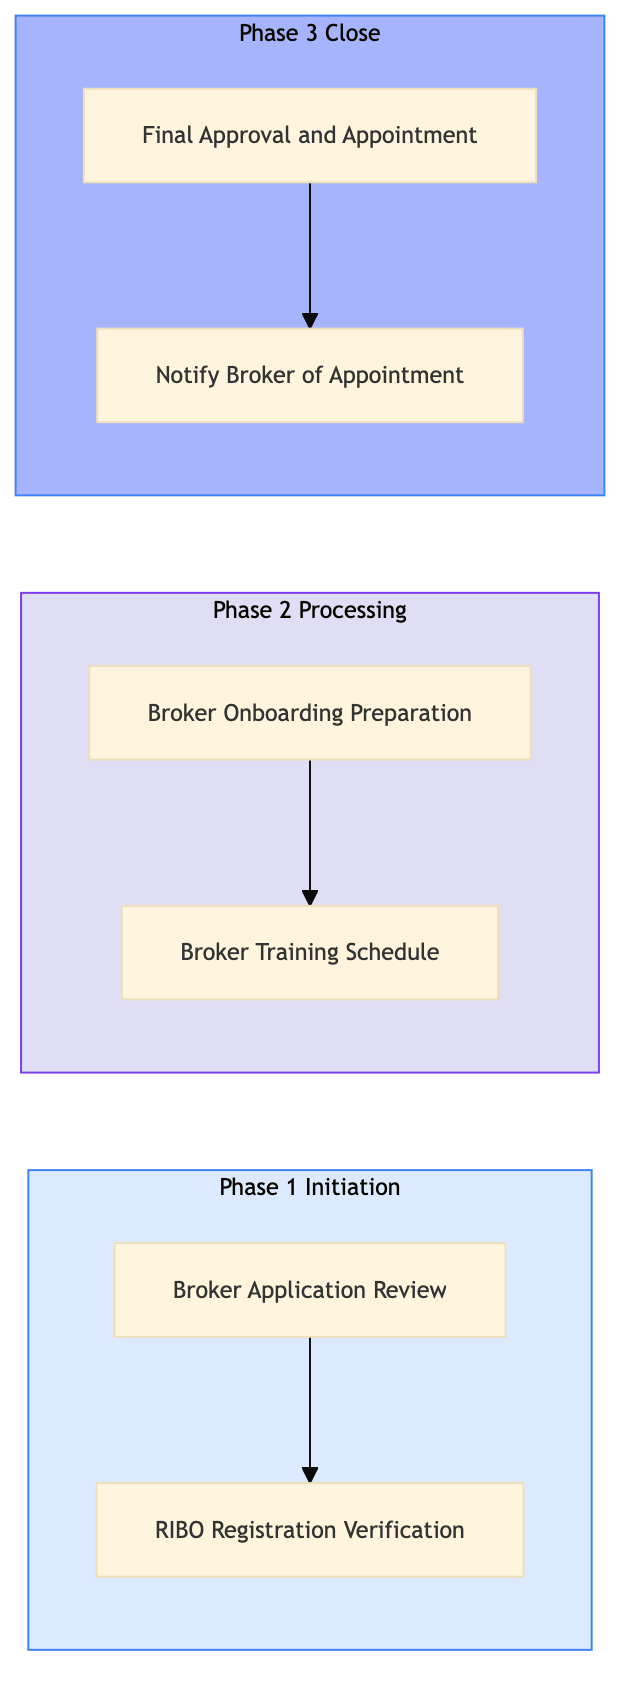
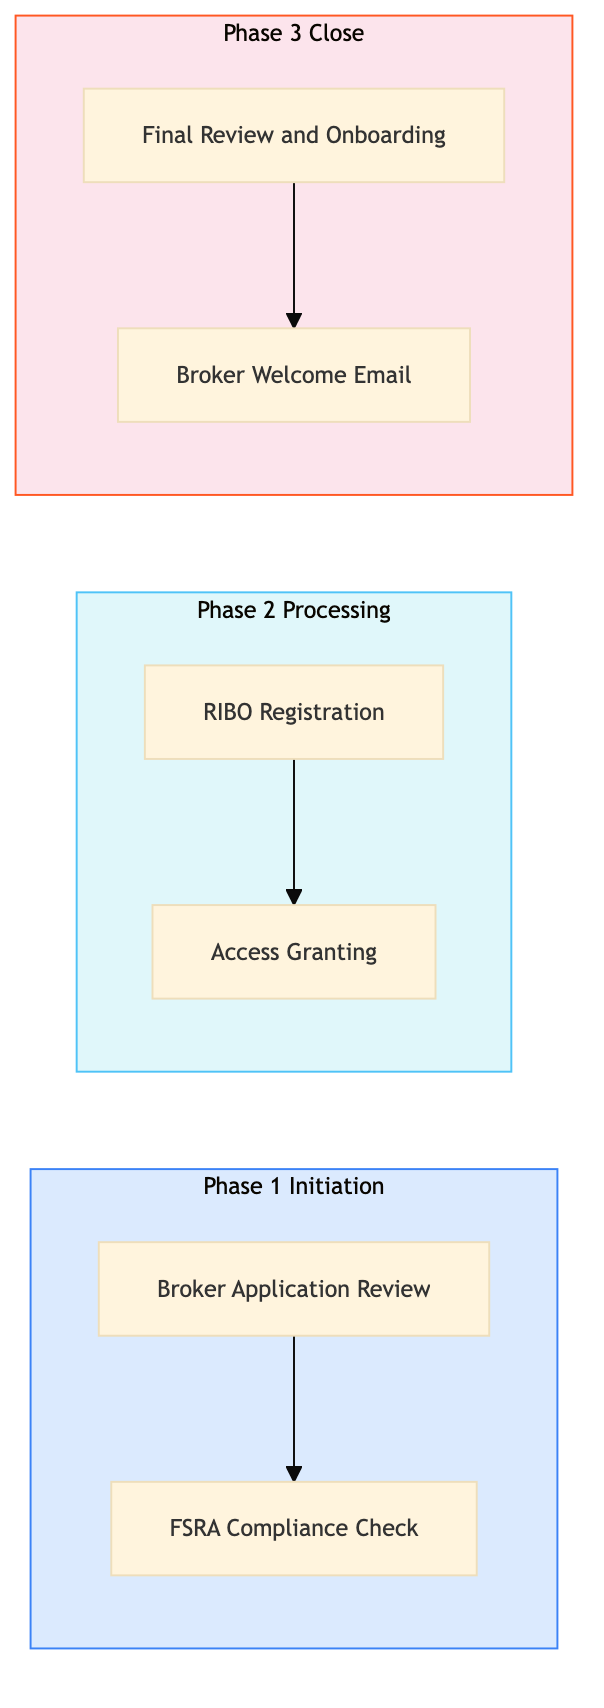
feat: add CAA-CI-AG-01 — Broker Appointment and RIBO Registration Verification

diff --git a/caa-insurance/caa-agency-operations/caa-ci-ag-01.html b/caa-insurance/caa-agency-operations/caa-ci-ag-01.html
@@ -23,40 +23,16 @@
     <div class="nav-l2-group">
       <a class="nav-l2-title" href="../../shared-membership/membership-enrolment/index.html">Membership Enrolment & Sales</a>
       <div class="nav-l3-list">
-        <a class="nav-l3" href="../../shared-membership/membership-enrolment/shared-mb-en-01.html">SHARED-MB-EN-01 &mdash; New Member Walk-In Enrolment (Branch)</a>
-        <a class="nav-l3" href="../../shared-membership/membership-enrolment/shared-mb-en-02.html">SHARED-MB-EN-02 &mdash; Online Membership Self-Enrolment (Web/Ap</a>
-        <a class="nav-l3" href="../../shared-membership/membership-enrolment/shared-mb-en-03.html">SHARED-MB-EN-03 &mdash; Phone Enrolment via Contact Centre</a>
-        <a class="nav-l3" href="../../shared-membership/membership-enrolment/shared-mb-en-04.html">SHARED-MB-EN-04 &mdash; Affiliate and Employer Group Enrolment</a>
-        <a class="nav-l3" href="../../shared-membership/membership-enrolment/shared-mb-en-05.html">SHARED-MB-EN-05 &mdash; Membership Tier Selection and Upsell</a>
-        <a class="nav-l3" href="../../shared-membership/membership-enrolment/shared-mb-en-06.html">SHARED-MB-EN-06 &mdash; Payment Processing and First-Year Billin</a>
-        <a class="nav-l3" href="../../shared-membership/membership-enrolment/shared-mb-en-07.html">SHARED-MB-EN-07 &mdash; Welcome Kit and Digital Card Issuance</a>
-        <a class="nav-l3" href="../../shared-membership/membership-enrolment/shared-mb-en-08.html">SHARED-MB-EN-08 &mdash; Duplicate Member Detection and Merge</a>
       </div>
     </div>
     <div class="nav-l2-group">
       <a class="nav-l2-title" href="../../shared-membership/membership-renewal/index.html">Membership Renewal & Retention</a>
       <div class="nav-l3-list">
-        <a class="nav-l3" href="../../shared-membership/membership-renewal/shared-mb-rn-01.html">SHARED-MB-RN-01 &mdash; Annual Renewal Notice Generation and Dis</a>
-        <a class="nav-l3" href="../../shared-membership/membership-renewal/shared-mb-rn-02.html">SHARED-MB-RN-02 &mdash; Auto-Renewal Processing (Credit Card on </a>
-        <a class="nav-l3" href="../../shared-membership/membership-renewal/shared-mb-rn-03.html">SHARED-MB-RN-03 &mdash; Lapsed Member Reinstatement Campaign</a>
-        <a class="nav-l3" href="../../shared-membership/membership-renewal/shared-mb-rn-04.html">SHARED-MB-RN-04 &mdash; Membership Upgrade and Tier Change Proce</a>
-        <a class="nav-l3" href="../../shared-membership/membership-renewal/shared-mb-rn-05.html">SHARED-MB-RN-05 &mdash; Associate and Household Member Add-On Pr</a>
-        <a class="nav-l3" href="../../shared-membership/membership-renewal/shared-mb-rn-06.html">SHARED-MB-RN-06 &mdash; Cancellation Request Handling and Save O</a>
-        <a class="nav-l3" href="../../shared-membership/membership-renewal/shared-mb-rn-07.html">SHARED-MB-RN-07 &mdash; Renewal Rate Review and Pricing Update</a>
-        <a class="nav-l3" href="../../shared-membership/membership-renewal/shared-mb-rn-08.html">SHARED-MB-RN-08 &mdash; Membership Winback Campaign (12-36 Month</a>
       </div>
     </div>
     <div class="nav-l2-group">
       <a class="nav-l2-title" href="../../shared-membership/member-services/index.html">Member Services & Benefits</a>
       <div class="nav-l3-list">
-        <a class="nav-l3" href="../../shared-membership/member-services/shared-mb-sv-01.html">SHARED-MB-SV-01 &mdash; Member Discount Partner Redemption</a>
-        <a class="nav-l3" href="../../shared-membership/member-services/shared-mb-sv-02.html">SHARED-MB-SV-02 &mdash; Passport Photo Service Delivery (Branch)</a>
-        <a class="nav-l3" href="../../shared-membership/member-services/shared-mb-sv-03.html">SHARED-MB-SV-03 &mdash; International Driving Permit (IDP) Proce</a>
-        <a class="nav-l3" href="../../shared-membership/member-services/shared-mb-sv-04.html">SHARED-MB-SV-04 &mdash; Notary and Document Authentication Servi</a>
-        <a class="nav-l3" href="../../shared-membership/member-services/shared-mb-sv-05.html">SHARED-MB-SV-05 &mdash; Member Portal Profile and Preferences Ma</a>
-        <a class="nav-l3" href="../../shared-membership/member-services/shared-mb-sv-06.html">SHARED-MB-SV-06 &mdash; Lost and Stolen Membership Card Replacem</a>
-        <a class="nav-l3" href="../../shared-membership/member-services/shared-mb-sv-07.html">SHARED-MB-SV-07 &mdash; Member Data Privacy Request (CCPA and PI</a>
-        <a class="nav-l3" href="../../shared-membership/member-services/shared-mb-sv-08.html">SHARED-MB-SV-08 &mdash; Member Satisfaction Survey and NPS Track</a>
       </div>
     </div>
   </div>
@@ -338,7 +314,7 @@
           <span class="pid-badge org-badge-caa">CAA</span>
           CAA-CI-AG-01 &mdash; Broker Appointment and RIBO Registration Verification
         </h1>
-        <p>This process manages the appointment of insurance brokers and verifies their RIBO (Registered Insurance Brokers Ontario) registration for CAA South Central Ontario.</p>
+        <p>The process for verifying broker appointments and RIBO registrations in CAA South Central Ontario involves validating new brokers against FSRA regulations and ensuring they are properly registered in the Guidewire InsuranceSuite.</p>
       </div>
 
       <!-- BPMN Diagram -->
@@ -364,10 +340,10 @@
             <tr><th>L1 Domain</th><td>CAA Insurance (Ontario)</td></tr>
             <tr><th>L2 Process</th><td>Insurance Agency & Broker Operations</td></tr>
             <tr><th>L3 Name</th><td>Broker Appointment and RIBO Registration Verification</td></tr>
-            <tr><th>Trigger</th><td>A new broker application is submitted through the Guidewire InsuranceSuite or a direct request from an existing broker.</td></tr>
-            <tr><th>Outcome</th><td>Successful completion results in the broker being officially appointed and verified as a registered insurance broker under FSRA regulations, allowing them to conduct business with CAA South Central Ontario.</td></tr>
-            <tr><th>Org Notes</th><td>CAA South Central Ontario has specific requirements for RIBO registration that differ slightly from AAA's processes, particularly around compliance with Ontario's Financial Services Regulatory Authority (FSRA) guidelines.</td></tr>
-            <tr><th>Systems</th><td><span class="sys-tag guidewire">Guidewire InsuranceSuite</span> <span class="sys-tag fsra">FSRA Database</span> <span class="sys-tag galileo">Galileo GDS</span> <span class="sys-tag caa-app">CAA MyCAA App</span></td></tr>
+            <tr><th>Trigger</th><td>New broker application submission</td></tr>
+            <tr><th>Outcome</th><td>Successful registration of a verified broker with access to CAA systems and services.</td></tr>
+            <tr><th>Org Notes</th><td>CAA requires stricter verification processes compared to AAA, including additional checks against FSRA regulations.</td></tr>
+            <tr><th>Systems</th><td><span class="sys-tag guidewire">Guidewire InsuranceSuite</span> <span class="sys-tag galileo">Galileo GDS</span> <span class="sys-tag salesforce">Salesforce</span></td></tr>
           </table>
         </div>
       </div>
@@ -391,70 +367,70 @@
           <td>Broker Application Review</td>
           <td>Insurance Agency Manager</td>
           <td><span class="sys-tag guidewire">Guidewire InsuranceSuite</span></td>
-          <td>Broker application form</td>
+          <td>New broker application form</td>
           <td>Application review report</td>
           <td>Application review time < 3 business days</td>
-          <td>Delays in application processing can affect broker onboarding timelines.</td>
+          <td>Delays in reviewing applications due to high volume</td>
           <td><span class="decision-y">Y</span></td>
           <td>N</td>
         </tr>
         <tr>
           <td class="step-num">1.2</td>
-          <td>RIBO Registration Verification</td>
+          <td>FSRA Compliance Check</td>
           <td>Regulatory Compliance Officer</td>
-          <td><span class="sys-tag fsra">FSRA Database</span></td>
-          <td>Broker's RIBO registration number</td>
-          <td>Verification report</td>
-          <td>Registration verification time < 1 business day</td>
-          <td>Incorrect or missing RIBO numbers can lead to delays in broker appointments.</td>
+          <td><span class="sys-tag galileo">Galileo GDS</span></td>
+          <td>Broker application review report</td>
+          <td>Compliance check report</td>
+          <td>Compliance check completion within 1 business day</td>
+          <td>Inaccurate compliance data leading to false rejections</td>
           <td><span class="decision-y">Y</span></td>
           <td>N</td>
         </tr>
         <tr>
           <td class="step-num">2.1</td>
-          <td>Broker Onboarding Preparation</td>
-          <td>Insurance Agency Manager</td>
+          <td>RIBO Registration</td>
+          <td>Broker Administrator</td>
           <td><span class="sys-tag guidewire">Guidewire InsuranceSuite</span></td>
-          <td>Verification report</td>
-          <td>Onboarding checklist</td>
-          <td>Onboarding preparation time < 2 business days</td>
-          <td>Incomplete onboarding checklists can cause operational inefficiencies.</td>
+          <td>Compliance check report</td>
+          <td>Registered broker profile in Guidewire</td>
+          <td>Registration time < 2 business days</td>
+          <td>System errors during registration process</td>
           <td>N</td>
           <td><span class="exception-y">Y</span></td>
         </tr>
         <tr>
           <td class="step-num">2.2</td>
-          <td>Broker Training Schedule</td>
-          <td>Training Coordinator</td>
-          <td><span class="sys-tag galileo">Galileo GDS</span></td>
-          <td>Onboarding checklist</td>
-          <td>Training schedule</td>
-          <td>Training completion rate > 90%</td>
-          <td>Low training completion rates can impact broker performance.</td>
+          <td>Access Granting</td>
+          <td>IT Support Specialist</td>
+          <td><span class="sys-tag guidewire">Guidewire InsuranceSuite</span></td>
+          <td>Registered broker profile</td>
+          <td>Broker access granted to CAA systems</td>
+          <td>Access granting time < 1 business day</td>
+          <td>Security breaches due to improper access management</td>
           <td>N</td>
           <td><span class="exception-y">Y</span></td>
         </tr>
         <tr>
           <td class="step-num">3.1</td>
-          <td>Final Approval and Appointment</td>
-          <td>General Manager</td>
+          <td>Final Review and Onboarding</td>
+          <td>Insurance Agency Manager</td>
           <td><span class="sys-tag guidewire">Guidewire InsuranceSuite</span></td>
-          <td>Training schedule</td>
-          <td>Appointment letter</td>
-          <td>Appointment approval time < 1 business day</td>
-          <td>Delays in final approvals can affect broker readiness.</td>
+          <td>Broker access granted notification</td>
+          <td>Onboarding checklist completed</td>
+          <td>Onboarding completion within 1 business day</td>
+          <td>Incomplete onboarding leading to broker confusion</td>
           <td>N</td>
           <td><span class="exception-y">Y</span></td>
         </tr>
         <tr>
           <td class="step-num">3.2</td>
-          <td>Notify Broker of Appointment</td>
-          <td>Insurance Agency Manager</td>
-          <td><span class="sys-tag caa-app">CAA MyCAA App</span></td>
-          <td>Appointment letter</td>
-          <td>Notification sent to broker</td>
-          <td>Broker notification time < 1 business day</td>
-          <td>Missed notifications can lead to confusion and operational delays.</td>
+          <td>Broker Welcome Email</td>
+          <td>Marketing Coordinator</td>
+          <td><span class="sys-tag salesforce">Salesforce</span></td>
+          <td>Onboarding checklist completed</td>
+          <td>Welcome email sent to broker</td>
+          <td>Email delivery rate > 95%</td>
+          <td>High bounce rates due to outdated contact information</td>
           <td>N</td>
           <td><span class="exception-y">Y</span></td>
         </tr>
@@ -469,9 +445,9 @@
         <div class="card-header">&#x1F4CA; KPIs &amp; Risk Register</div>
         <div class="card-body">
           <p class="mb-8"><strong>KPIs</strong></p>
-          <div class="kpi-list mb-8"><span class="kpi-pill">Application review time < 3 business days</span> <span class="kpi-pill">Registration verification time < 1 business day</span> <span class="kpi-pill">Onboarding preparation time < 2 business days</span> <span class="kpi-pill">Training completion rate > 90%</span> <span class="kpi-pill">Appointment approval time < 1 business day</span> <span class="kpi-pill">Broker notification time < 1 business day</span></div>
+          <div class="kpi-list mb-8"><span class="kpi-pill">Application review time < 3 business days</span> <span class="kpi-pill">Compliance check completion within 1 business day</span> <span class="kpi-pill">Registration time < 2 business days</span> <span class="kpi-pill">Access granting time < 1 business day</span> <span class="kpi-pill">Onboarding completion within 1 business day</span> <span class="kpi-pill">Email delivery rate > 95%</span></div>
           <p class="mb-8" style="margin-top:16px"><strong>Key Risks</strong></p>
-          <div class="kpi-list"><span class="risk-pill">Delays in application processing due to incomplete forms.</span> <span class="risk-pill">Incorrect or missing RIBO numbers leading to verification failures.</span> <span class="risk-pill">Incomplete onboarding checklists causing operational inefficiencies.</span> <span class="risk-pill">Low training completion rates impacting broker performance.</span> <span class="risk-pill">Delays in final approvals affecting broker readiness.</span></div>
+          <div class="kpi-list"><span class="risk-pill">Delays in reviewing applications due to high volume</span> <span class="risk-pill">Inaccurate compliance data leading to false rejections</span> <span class="risk-pill">System errors during registration process</span> <span class="risk-pill">Security breaches due to improper access management</span> <span class="risk-pill">Incomplete onboarding leading to broker confusion</span></div>
         </div>
       </div>
 

diff --git a/caa-insurance/caa-agency-operations/index.html b/caa-insurance/caa-agency-operations/index.html
@@ -21,40 +21,16 @@
     <div class="nav-l2-group">
       <a class="nav-l2-title" href="../../shared-membership/membership-enrolment/index.html">Membership Enrolment & Sales</a>
       <div class="nav-l3-list">
-        <a class="nav-l3" href="../../shared-membership/membership-enrolment/shared-mb-en-01.html">SHARED-MB-EN-01 &mdash; New Member Walk-In Enrolment (Branch)</a>
-        <a class="nav-l3" href="../../shared-membership/membership-enrolment/shared-mb-en-02.html">SHARED-MB-EN-02 &mdash; Online Membership Self-Enrolment (Web/Ap</a>
-        <a class="nav-l3" href="../../shared-membership/membership-enrolment/shared-mb-en-03.html">SHARED-MB-EN-03 &mdash; Phone Enrolment via Contact Centre</a>
-        <a class="nav-l3" href="../../shared-membership/membership-enrolment/shared-mb-en-04.html">SHARED-MB-EN-04 &mdash; Affiliate and Employer Group Enrolment</a>
-        <a class="nav-l3" href="../../shared-membership/membership-enrolment/shared-mb-en-05.html">SHARED-MB-EN-05 &mdash; Membership Tier Selection and Upsell</a>
-        <a class="nav-l3" href="../../shared-membership/membership-enrolment/shared-mb-en-06.html">SHARED-MB-EN-06 &mdash; Payment Processing and First-Year Billin</a>
-        <a class="nav-l3" href="../../shared-membership/membership-enrolment/shared-mb-en-07.html">SHARED-MB-EN-07 &mdash; Welcome Kit and Digital Card Issuance</a>
-        <a class="nav-l3" href="../../shared-membership/membership-enrolment/shared-mb-en-08.html">SHARED-MB-EN-08 &mdash; Duplicate Member Detection and Merge</a>
       </div>
     </div>
     <div class="nav-l2-group">
       <a class="nav-l2-title" href="../../shared-membership/membership-renewal/index.html">Membership Renewal & Retention</a>
       <div class="nav-l3-list">
-        <a class="nav-l3" href="../../shared-membership/membership-renewal/shared-mb-rn-01.html">SHARED-MB-RN-01 &mdash; Annual Renewal Notice Generation and Dis</a>
-        <a class="nav-l3" href="../../shared-membership/membership-renewal/shared-mb-rn-02.html">SHARED-MB-RN-02 &mdash; Auto-Renewal Processing (Credit Card on </a>
-        <a class="nav-l3" href="../../shared-membership/membership-renewal/shared-mb-rn-03.html">SHARED-MB-RN-03 &mdash; Lapsed Member Reinstatement Campaign</a>
-        <a class="nav-l3" href="../../shared-membership/membership-renewal/shared-mb-rn-04.html">SHARED-MB-RN-04 &mdash; Membership Upgrade and Tier Change Proce</a>
-        <a class="nav-l3" href="../../shared-membership/membership-renewal/shared-mb-rn-05.html">SHARED-MB-RN-05 &mdash; Associate and Household Member Add-On Pr</a>
-        <a class="nav-l3" href="../../shared-membership/membership-renewal/shared-mb-rn-06.html">SHARED-MB-RN-06 &mdash; Cancellation Request Handling and Save O</a>
-        <a class="nav-l3" href="../../shared-membership/membership-renewal/shared-mb-rn-07.html">SHARED-MB-RN-07 &mdash; Renewal Rate Review and Pricing Update</a>
-        <a class="nav-l3" href="../../shared-membership/membership-renewal/shared-mb-rn-08.html">SHARED-MB-RN-08 &mdash; Membership Winback Campaign (12-36 Month</a>
       </div>
     </div>
     <div class="nav-l2-group">
       <a class="nav-l2-title" href="../../shared-membership/member-services/index.html">Member Services & Benefits</a>
       <div class="nav-l3-list">
-        <a class="nav-l3" href="../../shared-membership/member-services/shared-mb-sv-01.html">SHARED-MB-SV-01 &mdash; Member Discount Partner Redemption</a>
-        <a class="nav-l3" href="../../shared-membership/member-services/shared-mb-sv-02.html">SHARED-MB-SV-02 &mdash; Passport Photo Service Delivery (Branch)</a>
-        <a class="nav-l3" href="../../shared-membership/member-services/shared-mb-sv-03.html">SHARED-MB-SV-03 &mdash; International Driving Permit (IDP) Proce</a>
-        <a class="nav-l3" href="../../shared-membership/member-services/shared-mb-sv-04.html">SHARED-MB-SV-04 &mdash; Notary and Document Authentication Servi</a>
-        <a class="nav-l3" href="../../shared-membership/member-services/shared-mb-sv-05.html">SHARED-MB-SV-05 &mdash; Member Portal Profile and Preferences Ma</a>
-        <a class="nav-l3" href="../../shared-membership/member-services/shared-mb-sv-06.html">SHARED-MB-SV-06 &mdash; Lost and Stolen Membership Card Replacem</a>
-        <a class="nav-l3" href="../../shared-membership/member-services/shared-mb-sv-07.html">SHARED-MB-SV-07 &mdash; Member Data Privacy Request (CCPA and PI</a>
-        <a class="nav-l3" href="../../shared-membership/member-services/shared-mb-sv-08.html">SHARED-MB-SV-08 &mdash; Member Satisfaction Survey and NPS Track</a>
       </div>
     </div>
   </div>
@@ -165,13 +141,6 @@
     <div class="nav-l2-group open">
       <a class="nav-l2-title" href="../../caa-insurance/caa-agency-operations/index.html">Insurance Agency & Broker Operations</a>
       <div class="nav-l3-list">
-        <a class="nav-l3" href="../../caa-insurance/caa-agency-operations/caa-ci-ag-01.html">CAA-CI-AG-01 &mdash; Broker Appointment and RIBO Registration</a>
-        <a class="nav-l3" href="../../caa-insurance/caa-agency-operations/caa-ci-ag-02.html">CAA-CI-AG-02 &mdash; RIBO Licence Renewal Tracking</a>
-        <a class="nav-l3" href="../../caa-insurance/caa-agency-operations/caa-ci-ag-03.html">CAA-CI-AG-03 &mdash; CAA Member Cross-Sell Auto and Home Bund</a>
-        <a class="nav-l3" href="../../caa-insurance/caa-agency-operations/caa-ci-ag-04.html">CAA-CI-AG-04 &mdash; CAA Connect Telematics Enrolment for UBI</a>
-        <a class="nav-l3" href="../../caa-insurance/caa-agency-operations/caa-ci-ag-05.html">CAA-CI-AG-05 &mdash; Broker Performance Reporting (Guidewire </a>
-        <a class="nav-l3" href="../../caa-insurance/caa-agency-operations/caa-ci-ag-06.html">CAA-CI-AG-06 &mdash; Travel Medical Insurance Sales and Under</a>
-        <a class="nav-l3" href="../../caa-insurance/caa-agency-operations/caa-ci-ag-07.html">CAA-CI-AG-07 &mdash; Pet Insurance Sales Processing</a>
       </div>
     </div>
   </div>
@@ -338,20 +307,20 @@
           <a href="../index.html">CAA Insurance (Ontario)</a>
         </div>
         <h1>🍁 Insurance Agency & Broker Operations</h1>
-        <p>7 of 8 processes complete</p>
+        <p>0 of 8 processes complete</p>
       </div>
       <div class="card">
         <div class="card-header">Process List</div>
         <div class="card-body">
           <table class="l4-table" style="min-width:500px">
             <thead><tr><th>PID</th><th>L3 Process Name</th><th>Status</th></tr></thead>
-            <tbody><tr><td><a href="caa-ci-ag-01.html">CAA-CI-AG-01</a></td><td>Broker Appointment and RIBO Registration Verification</td><td><span style="color:#16a34a;font-weight:700">&#x2705; Complete</span></td></tr>
-<tr><td><a href="caa-ci-ag-02.html">CAA-CI-AG-02</a></td><td>RIBO Licence Renewal Tracking</td><td><span style="color:#16a34a;font-weight:700">&#x2705; Complete</span></td></tr>
-<tr><td><a href="caa-ci-ag-03.html">CAA-CI-AG-03</a></td><td>CAA Member Cross-Sell Auto and Home Bundle</td><td><span style="color:#16a34a;font-weight:700">&#x2705; Complete</span></td></tr>
-<tr><td><a href="caa-ci-ag-04.html">CAA-CI-AG-04</a></td><td>CAA Connect Telematics Enrolment for UBI Discount</td><td><span style="color:#16a34a;font-weight:700">&#x2705; Complete</span></td></tr>
-<tr><td><a href="caa-ci-ag-05.html">CAA-CI-AG-05</a></td><td>Broker Performance Reporting (Guidewire Analytics)</td><td><span style="color:#16a34a;font-weight:700">&#x2705; Complete</span></td></tr>
-<tr><td><a href="caa-ci-ag-06.html">CAA-CI-AG-06</a></td><td>Travel Medical Insurance Sales and Underwriting</td><td><span style="color:#16a34a;font-weight:700">&#x2705; Complete</span></td></tr>
-<tr><td><a href="caa-ci-ag-07.html">CAA-CI-AG-07</a></td><td>Pet Insurance Sales Processing</td><td><span style="color:#16a34a;font-weight:700">&#x2705; Complete</span></td></tr>
+            <tbody><tr><td>CAA-CI-AG-01</td><td>Broker Appointment and RIBO Registration Verification</td><td><span style="color:#94a3b8">&#x23F3; Queued</span></td></tr>
+<tr><td>CAA-CI-AG-02</td><td>RIBO Licence Renewal Tracking</td><td><span style="color:#94a3b8">&#x23F3; Queued</span></td></tr>
+<tr><td>CAA-CI-AG-03</td><td>CAA Member Cross-Sell Auto and Home Bundle</td><td><span style="color:#94a3b8">&#x23F3; Queued</span></td></tr>
+<tr><td>CAA-CI-AG-04</td><td>CAA Connect Telematics Enrolment for UBI Discount</td><td><span style="color:#94a3b8">&#x23F3; Queued</span></td></tr>
+<tr><td>CAA-CI-AG-05</td><td>Broker Performance Reporting (Guidewire Analytics)</td><td><span style="color:#94a3b8">&#x23F3; Queued</span></td></tr>
+<tr><td>CAA-CI-AG-06</td><td>Travel Medical Insurance Sales and Underwriting</td><td><span style="color:#94a3b8">&#x23F3; Queued</span></td></tr>
+<tr><td>CAA-CI-AG-07</td><td>Pet Insurance Sales Processing</td><td><span style="color:#94a3b8">&#x23F3; Queued</span></td></tr>
 <tr><td>CAA-CI-AG-08</td><td>Life Insurance Lead Referral (CAA Life Insurance)</td><td><span style="color:#94a3b8">&#x23F3; Queued</span></td></tr>
 </tbody>
           </table>

diff --git a/index.html b/index.html
@@ -135,6 +135,7 @@
         <a class="nav-l3" href="caa-insurance/caa-insurance-billing/caa-ci-bi-05.html">CAA-CI-BI-05 &mdash; Agent and Broker Commission Statement (B</a>
         <a class="nav-l3" href="caa-insurance/caa-insurance-billing/caa-ci-bi-06.html">CAA-CI-BI-06 &mdash; Refund and Returned Premium Calculation</a>
         <a class="nav-l3" href="caa-insurance/caa-insurance-billing/caa-ci-bi-07.html">CAA-CI-BI-07 &mdash; HST Calculation and Remittance (Ontario </a>
+        <a class="nav-l3" href="caa-insurance/caa-insurance-billing/caa-ci-bi-08.html">CAA-CI-BI-08 &mdash; Premium Tax Filing (Ontario 2 percent pr</a>
       </div>
     </div>
     <div class="nav-l2-group">
@@ -306,10 +307,10 @@
       </div>
 
       <div class="stats-bar">
-        <div class="stat-card"><div class="stat-num">59</div><div class="stat-label">Processes Complete</div></div>
+        <div class="stat-card"><div class="stat-num">60</div><div class="stat-label">Processes Complete</div></div>
         <div class="stat-card"><div class="stat-num">268</div><div class="stat-label">Total Processes</div></div>
         <div class="stat-card"><div class="stat-num">34</div><div class="stat-label">AAA Complete</div></div>
-        <div class="stat-card"><div class="stat-num caa-red">25</div><div class="stat-label">CAA Complete</div></div>
+        <div class="stat-card"><div class="stat-num caa-red">26</div><div class="stat-label">CAA Complete</div></div>
         <div class="stat-card"><div class="stat-num">0</div><div class="stat-label">Shared Complete</div></div>
       </div>
 
@@ -336,7 +337,7 @@
         <span class="nav-org-dot caa" style="display:inline-block;margin-right:4px"></span>
         CAA
       </p>
-      <p class="card-count">25 / 34 processes complete</p>
+      <p class="card-count">26 / 34 processes complete</p>
     </div>
     <div class="domain-card org-shared">
       <h3><a href="shared-roadside/index.html">🚨 Roadside Assistance</a></h3>

diff --git a/caa-insurance/index.html b/caa-insurance/index.html
@@ -135,6 +135,7 @@
         <a class="nav-l3" href="../caa-insurance/caa-insurance-billing/caa-ci-bi-05.html">CAA-CI-BI-05 &mdash; Agent and Broker Commission Statement (B</a>
         <a class="nav-l3" href="../caa-insurance/caa-insurance-billing/caa-ci-bi-06.html">CAA-CI-BI-06 &mdash; Refund and Returned Premium Calculation</a>
         <a class="nav-l3" href="../caa-insurance/caa-insurance-billing/caa-ci-bi-07.html">CAA-CI-BI-07 &mdash; HST Calculation and Remittance (Ontario </a>
+        <a class="nav-l3" href="../caa-insurance/caa-insurance-billing/caa-ci-bi-08.html">CAA-CI-BI-08 &mdash; Premium Tax Filing (Ontario 2 percent pr</a>
       </div>
     </div>
     <div class="nav-l2-group">
@@ -303,7 +304,7 @@
       <div class="page-header">
         <div class="breadcrumb"><a href="../index.html">Home</a></div>
         <h1>🍁 CAA Insurance (Ontario)</h1>
-        <p>25 of 34 processes complete across 4 process groups</p>
+        <p>26 of 34 processes complete across 4 process groups</p>
       </div>
       <div class="domain-grid">    <div class="domain-card org-caa">
       <h3><a href="caa-insurance-quoting/index.html">Quoting & Underwriting (CAA)</a></h3>
@@ -315,7 +316,7 @@
     </div>
     <div class="domain-card org-caa">
       <h3><a href="caa-insurance-billing/index.html">Billing & Premium Management (CAA)</a></h3>
-      <p class="card-meta">7/8 processes complete</p>
+      <p class="card-meta">8/8 processes complete</p>
     </div>
     <div class="domain-card org-caa">
       <h3><a href="caa-agency-operations/index.html">Insurance Agency & Broker Operations</a></h3>
